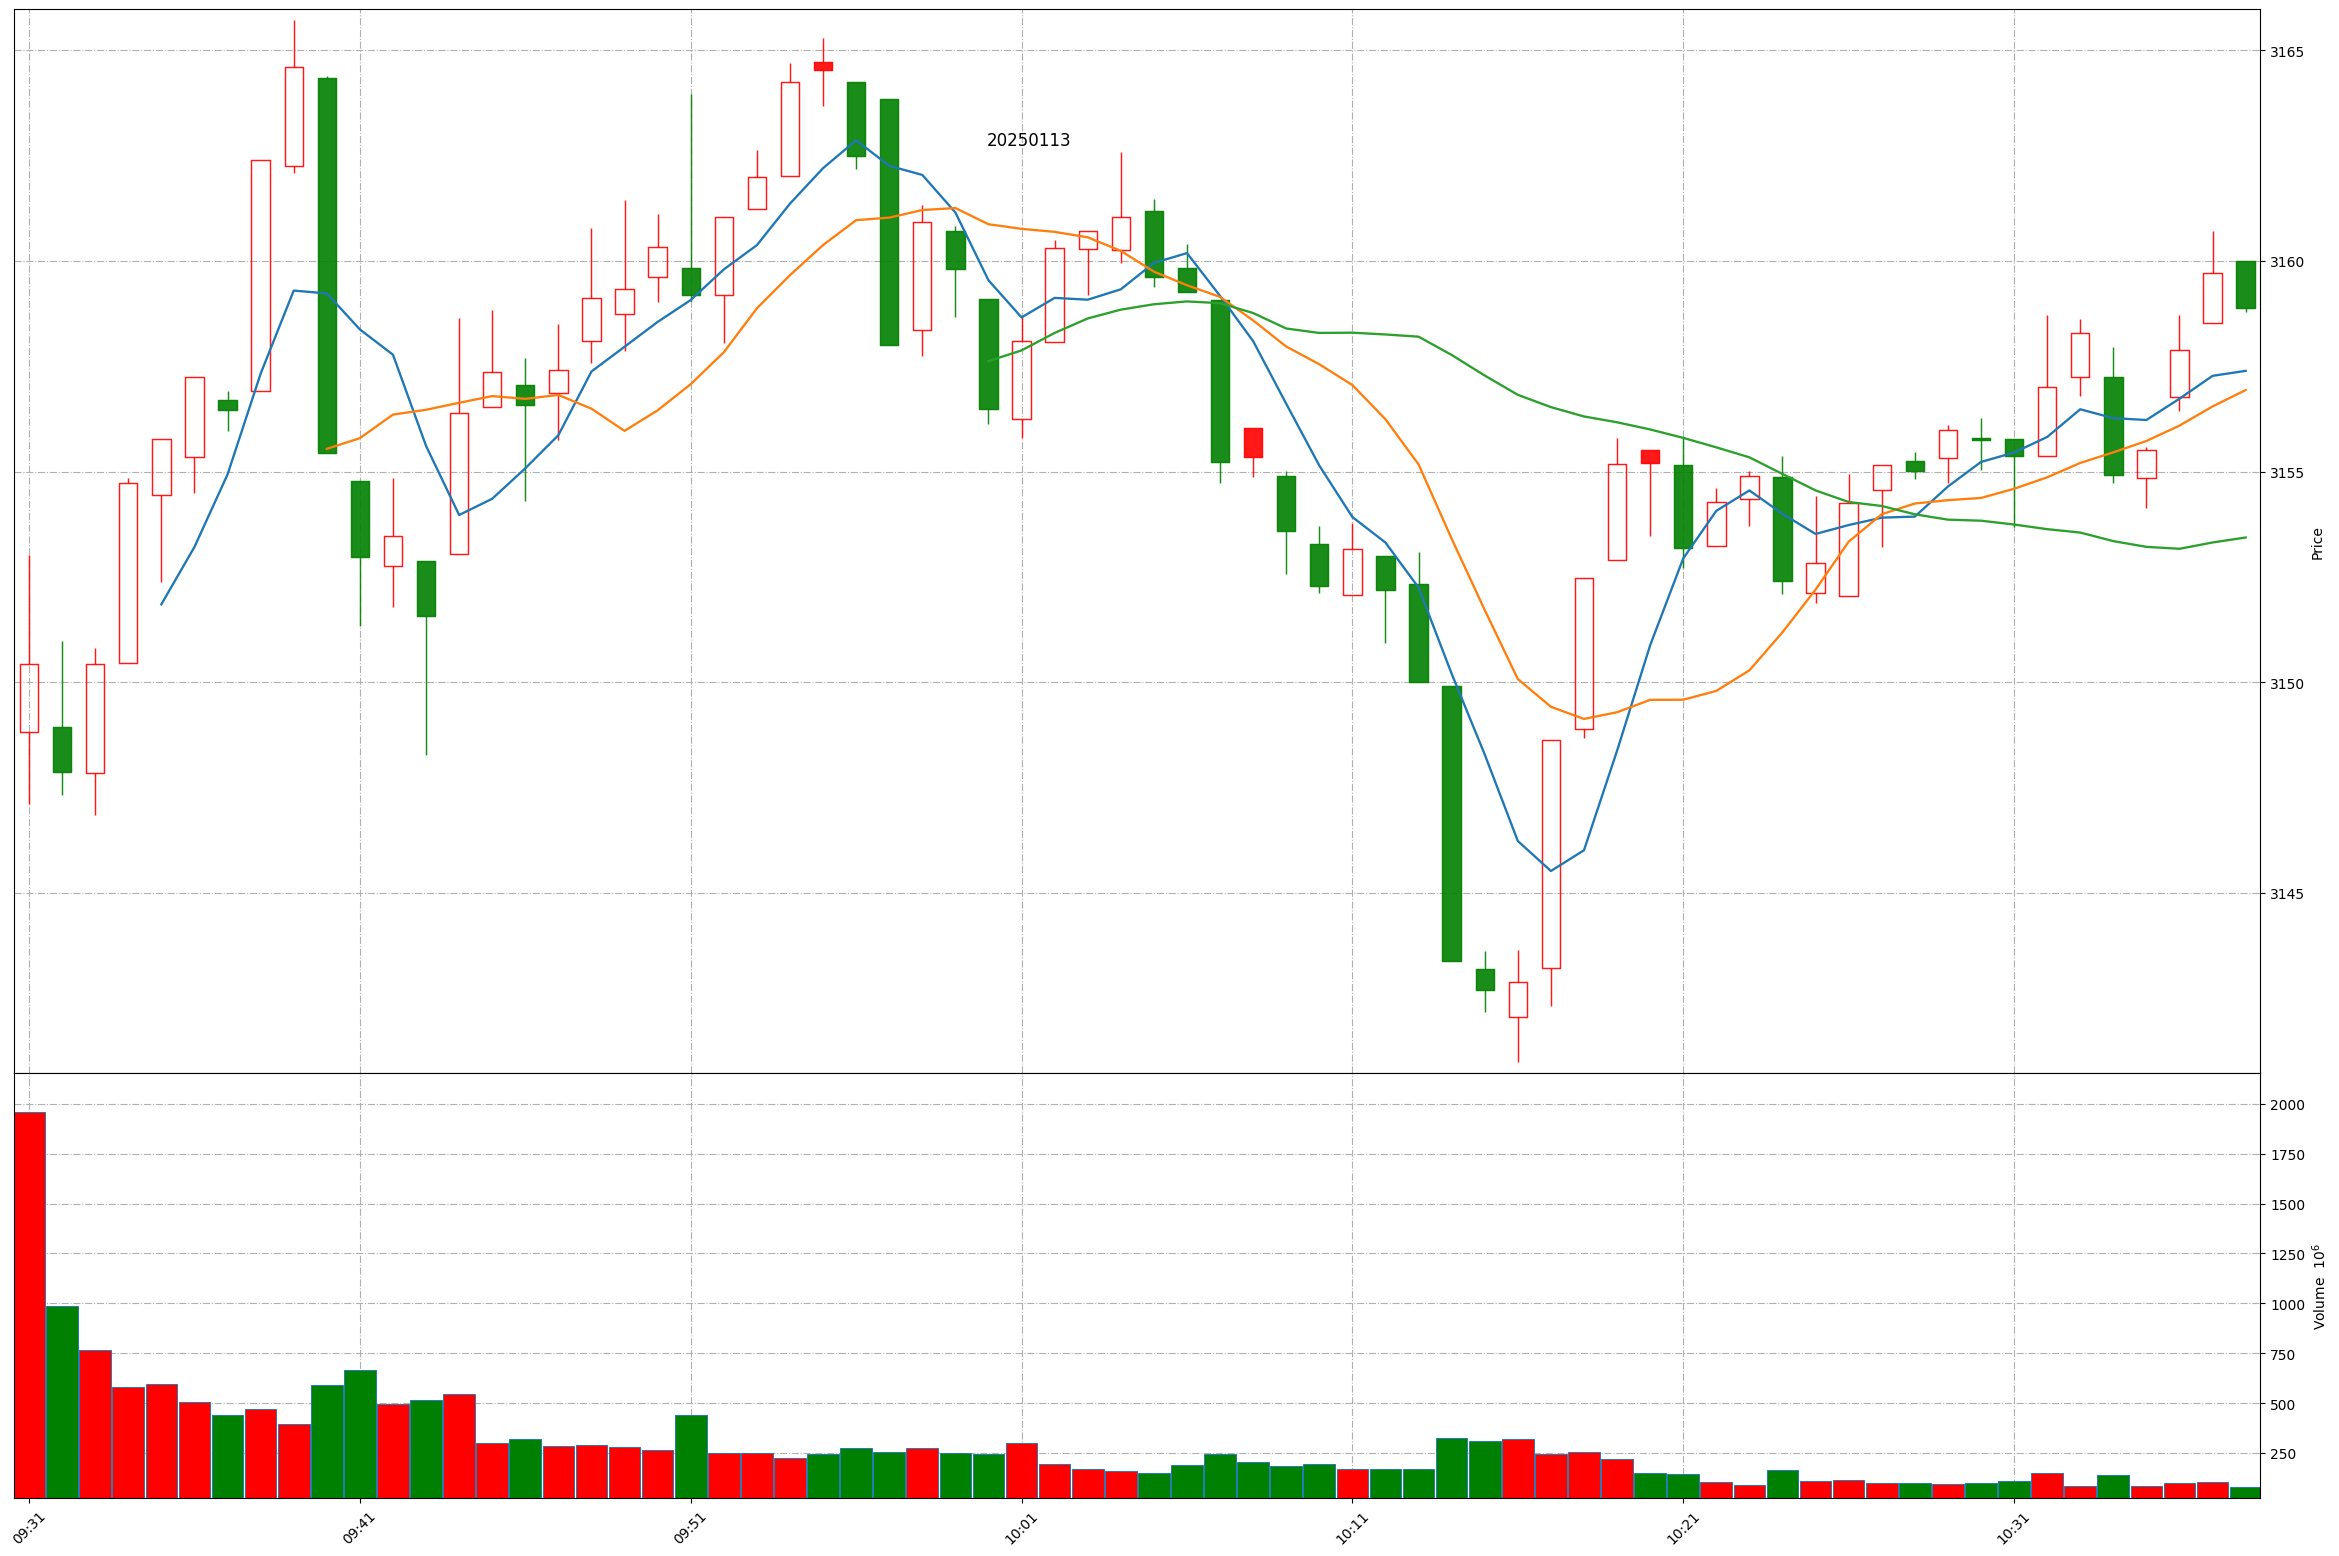
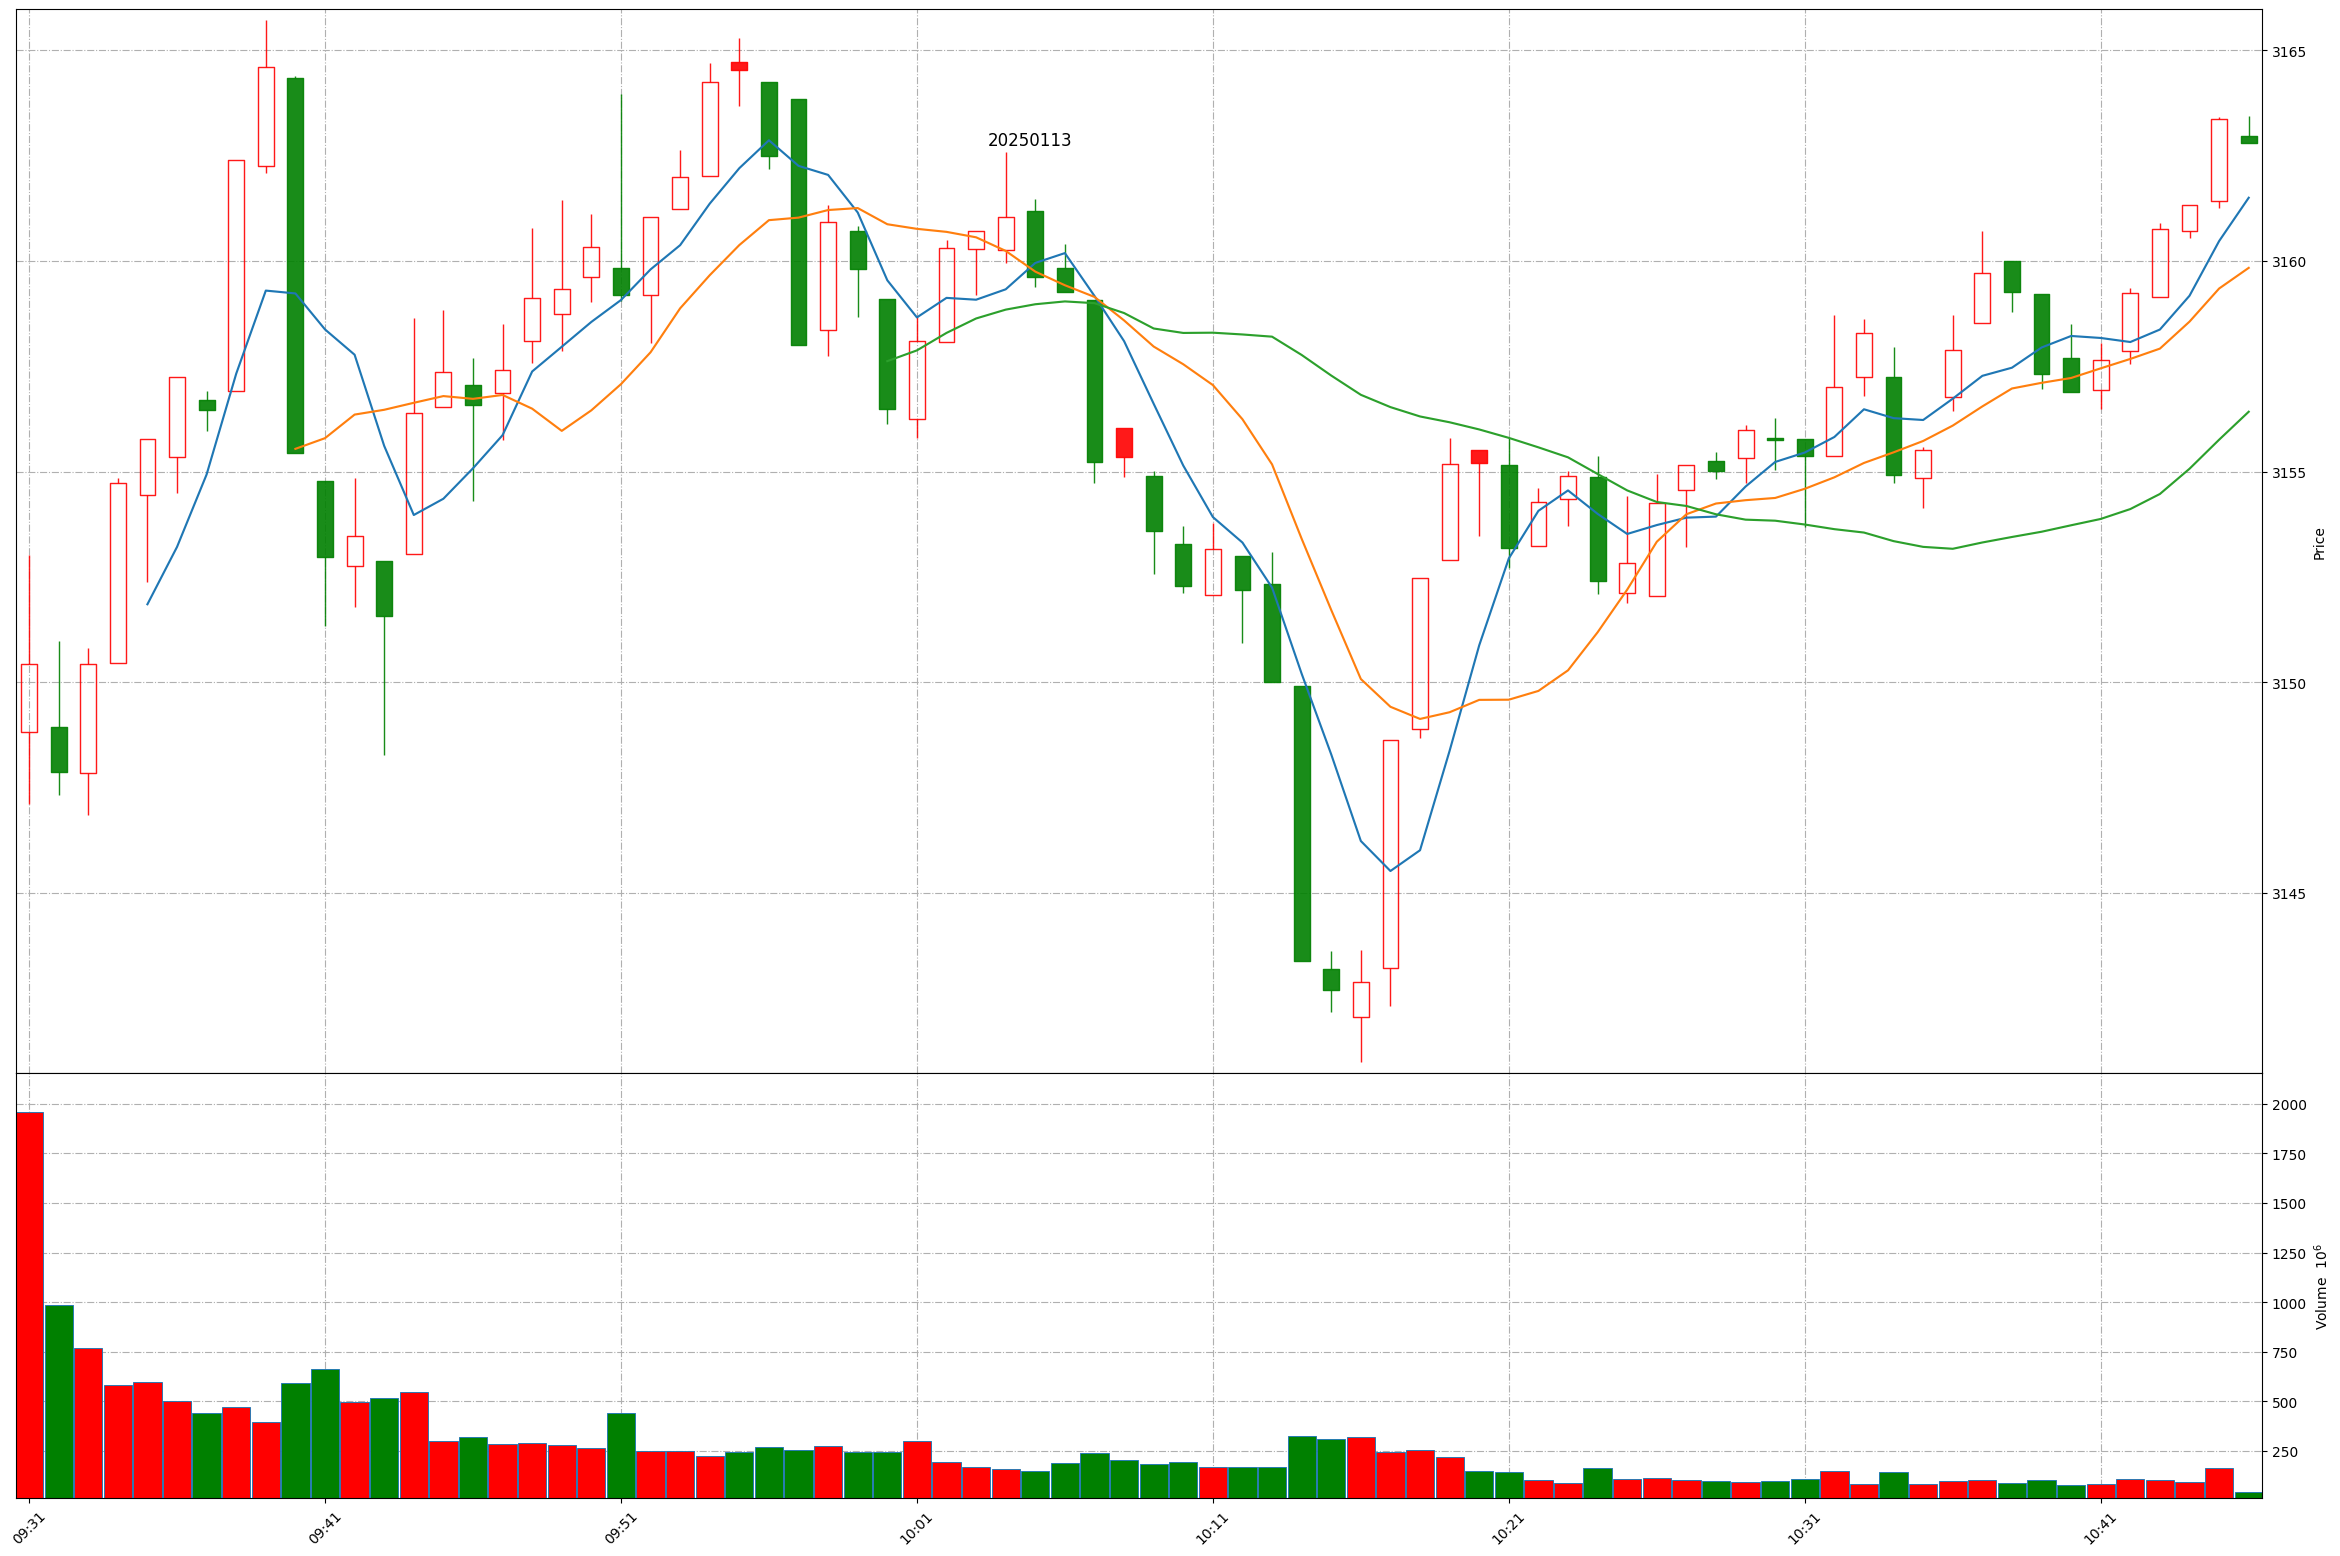
Github action update at 2025-01-13 10:45:35.

diff --git a/README.md b/README.md
@@ -1,11 +1,11 @@
 
 # Daily-A-share-market-quotes 每日 A 股指数（5min 更新）- 20250113
 
-### 上证指数 20250113 10:38
+### 上证指数 20250113 10:45
 ![](./fig/2025/1/20250113-sh000001.png)
 
-### 深证成指 20250113 10:38
+### 深证成指 20250113 10:45
 ![](./fig/2025/1/20250113-sz399001.png)
 
-### 北证50 20250113 10:38
+### 北证50 20250113 10:45
 ![](./fig/2025/1/20250113-bj899050.png)
